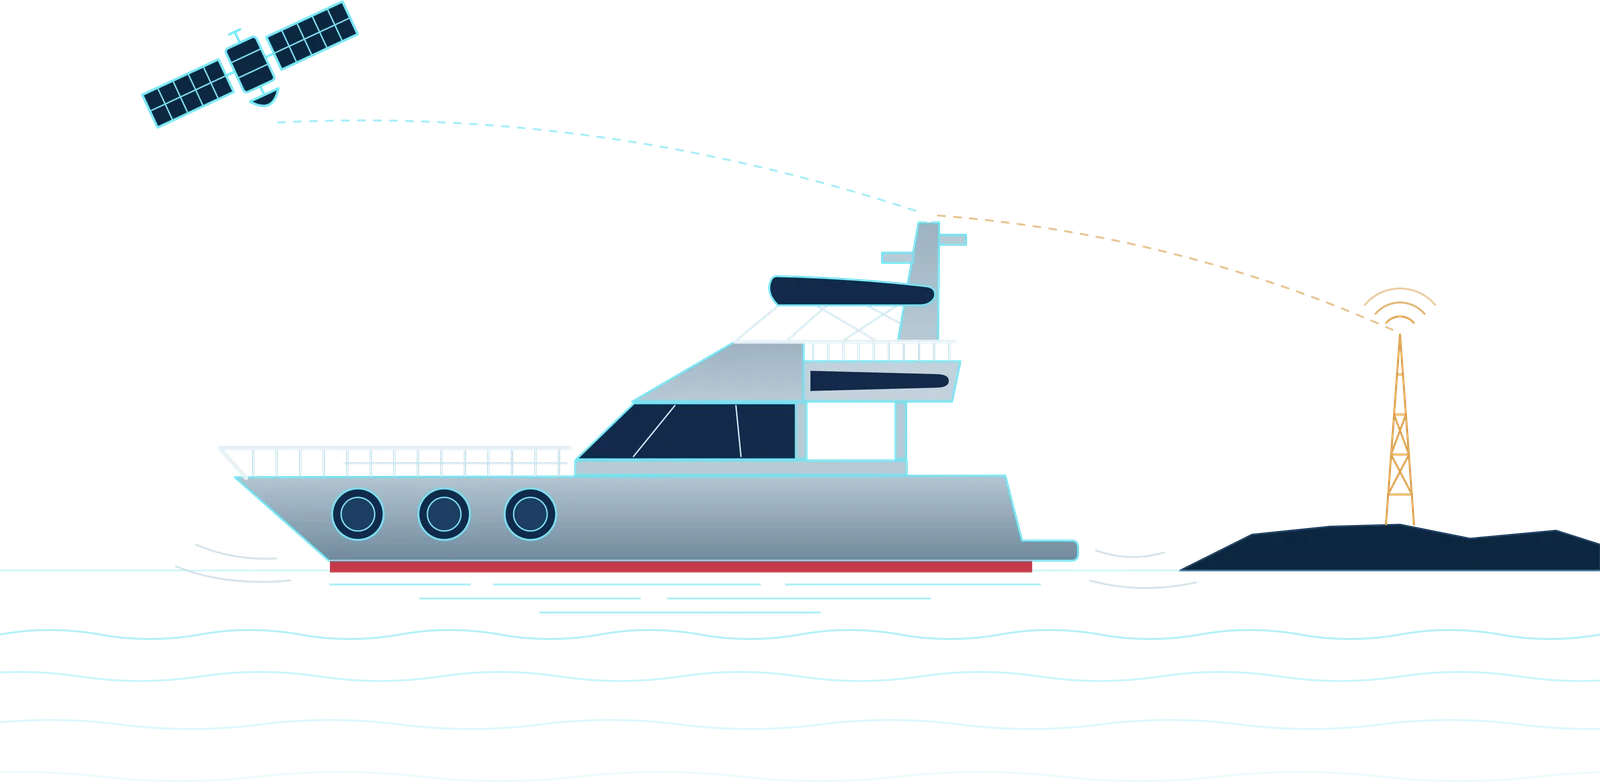
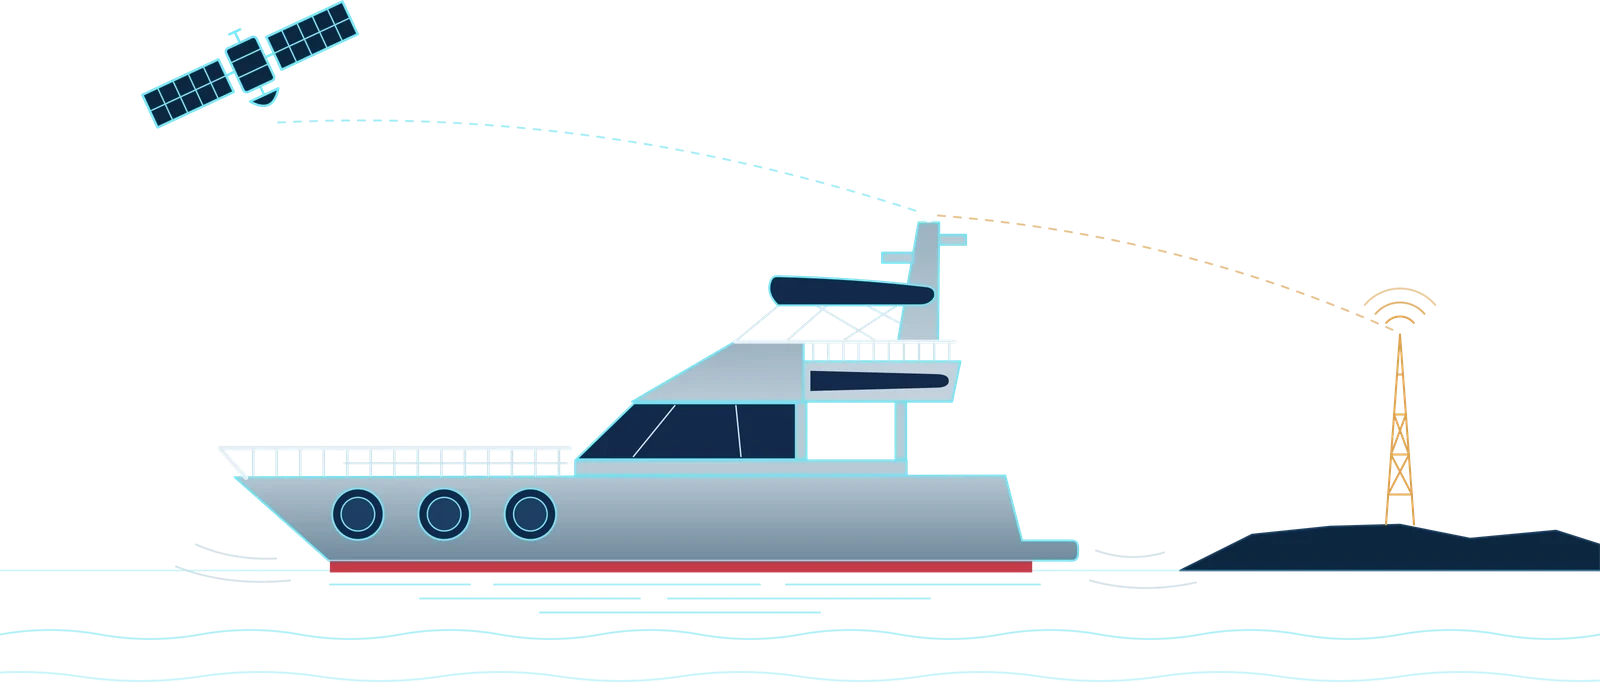
Maritime: fit the yacht on 1440p screens, new home screenshot
Crop the two lowest waves off the yacht illustration (1600x782 -> 1600x700)
and cap its height at clamp(200px, 28vh, 360px) so the hero, illustration
and On board strip sit above the fold on a 1440p screen.

Swap the yacht home page screenshot for the current dashboard, which adds
the Live alerts and Starlink data & cost cards; alt text updated to match.

diff --git a/maritime/index.html b/maritime/index.html
@@ -66,7 +66,7 @@
   </div>
 </section>
 <div class="voyage voyage-img">
-<img src="../assets/img/yacht-links.webp" width="1600" height="782" loading="lazy" decoding="async"
+<img src="../assets/img/yacht-links.webp" width="1600" height="700" loading="lazy" decoding="async"
      alt="Illustration of a motor yacht at sea, linked to a satellite overhead and a cell mast on the coast.">
 </div>
 <div class="readout" aria-label="Example readout">
@@ -128,7 +128,7 @@
     <div class="browser-dots"><span class="browser-dot"></span><span class="browser-dot"></span><span class="browser-dot"></span></div>
     <span class="browser-input">noc.444.video/maritime</span>
   </div>
-  <img src="../assets/img/dash-yacht-home.png" alt="Vistigo Maritime home page for a demo yacht, with cards for the yacht overview, Wi-Fi by network, crew Wi-Fi, links, cellular, Starlink, router health and three simple views." loading="lazy">
+  <img src="../assets/img/dash-yacht-home.png" alt="Vistigo Maritime home page for a demo yacht, with cards for the yacht overview, live alerts, Wi-Fi by network, crew Wi-Fi, links, cellular, Starlink, Starlink data and cost, router health and three simple views." loading="lazy">
 </div>
   <figcaption class="shot-note"><span class="badge bg-green-lt">Screenshot</span>The home page for a yacht: on board, engineering and simple views.</figcaption>
 </figure></div>

diff --git a/assets/css/site.css b/assets/css/site.css
@@ -471,5 +471,5 @@ p{max-width:68ch}
 .p-maritime .hero-description{font-size:1.125rem}
 .p-maritime .voyage{height:clamp(110px,11.875vw,240px);margin-top:0}
 .voyage-img{height:auto;background:none;overflow:visible;padding:0 1rem}
-.voyage-img img{display:block;width:100%;max-width:1200px;height:auto;margin:0 auto;-webkit-mask-image:linear-gradient(90deg,transparent,#000 8%,#000 92%,transparent);mask-image:linear-gradient(90deg,transparent,#000 8%,#000 92%,transparent)}
+.voyage-img img{display:block;width:auto;max-width:100%;height:auto;max-height:clamp(200px,28vh,360px);margin:0 auto;-webkit-mask-image:linear-gradient(90deg,transparent,#000 8%,#000 92%,transparent);mask-image:linear-gradient(90deg,transparent,#000 8%,#000 92%,transparent)}
 .p-maritime .voyage-img{height:auto}

diff --git a/build.py b/build.py
@@ -443,7 +443,7 @@ def hub():
 def _yacht():
     """Illustration of a motor yacht under way, with its Starlink and cellular links."""
     return """<div class="voyage voyage-img">
-<img src="../assets/img/yacht-links.webp" width="1600" height="782" loading="lazy" decoding="async"
+<img src="../assets/img/yacht-links.webp" width="1600" height="700" loading="lazy" decoding="async"
      alt="Illustration of a motor yacht at sea, linked to a satellite overhead and a cell mast on the coast.">
 </div>"""
 
@@ -540,7 +540,7 @@ def maritime():
 </div>""", alt=True)}
 
 {section("A screen for everyone on board", "One home page for the yacht, then a dashboard for each job. The owner gets a yes or no, the purser gets the bill, and the engineer gets every reading from the dish and the modems.",
-         f"""<div class="mb-4">{shot('dash-yacht-home.png', 'Vistigo Maritime home page for a demo yacht, with cards for the yacht overview, Wi-Fi by network, crew Wi-Fi, links, cellular, Starlink, router health and three simple views.',
+         f"""<div class="mb-4">{shot('dash-yacht-home.png', 'Vistigo Maritime home page for a demo yacht, with cards for the yacht overview, live alerts, Wi-Fi by network, crew Wi-Fi, links, cellular, Starlink, Starlink data and cost, router health and three simple views.',
                                     'The home page for a yacht: on board, engineering and simple views.', rel, '/maritime')}</div>
 <div class="row g-4">
   <div class="col-lg-6">{shot('dash-yacht-status.png', 'Is the internet OK? The internet is working, connected via wired internet, with Wi-Fi WAN and wired internet ready as back-up and 100 percent online today.',
